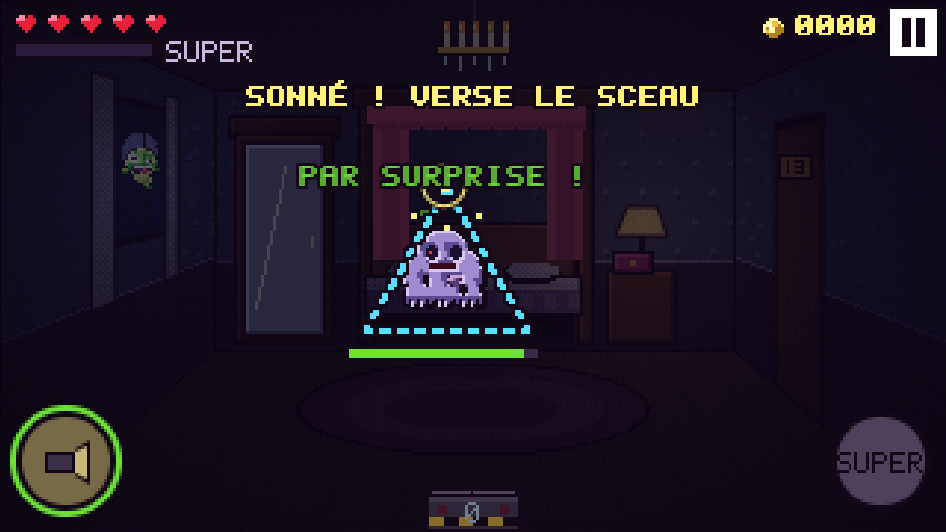
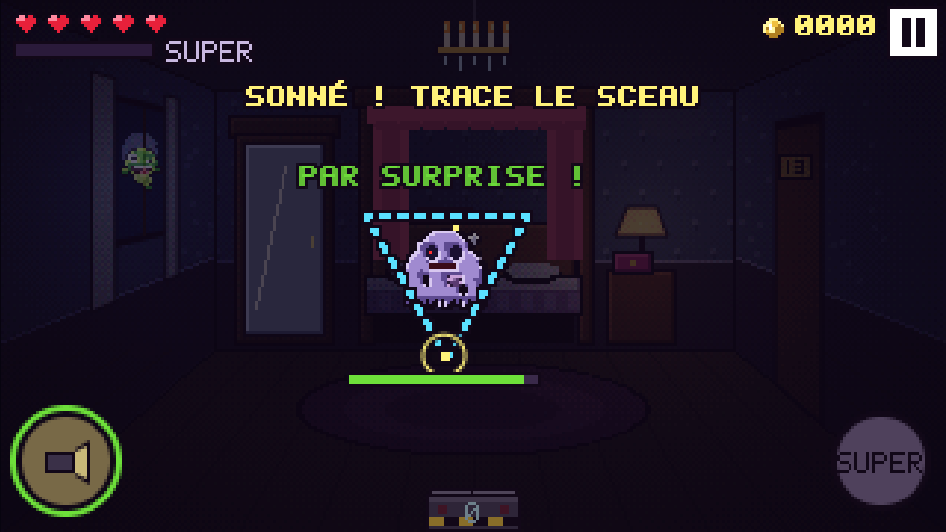
Ghostel 2.7.3 : on trace le sceau, on ne le verse pas
Julie : on verse du sel pour tracer un sceau, on ne verse pas le sceau.
« VERSE LE SCEAU » devient « TRACE LE SCEAU » dans les trois textes.

Changed region(s): [[0.3679, 0.3308, 0.5825, 0.7218], [0.4292, 0.1504, 0.5211, 0.2105]]

diff --git a/ghost-train/moteur/sceaux.js b/ghost-train/moteur/sceaux.js
@@ -58,7 +58,7 @@ export function ouvrirSceau(p, e, total = 1, n = 0, deja = []) {
   p.sceau = { e, forme: nom, deja: [...deja, nom], traits, i: 0, jalons: traits[0].jalons, cx, cy, r, duree, reste: duree, total, n, trace: null, leve: false, t: 0 };
   p.tenu = null; p.tire = false;
   if (n === 0) {
-    evt(p, { type: 'texte', s: e.boss ? 'ELLE SE DÉBAT ! VERSE LES SCEAUX' : 'SONNÉ ! VERSE LE SCEAU', x: 160, y: ligne(p.sceau), col: '#fff27a' });
+    evt(p, { type: 'texte', s: e.boss ? 'ELLE SE DÉBAT ! TRACE LES SCEAUX' : 'SONNÉ ! TRACE LE SCEAU', x: 160, y: ligne(p.sceau), col: '#fff27a' });
     evt(p, { type: 'son', nom: 'pret' }); evt(p, { type: 'vibre', ms: 60 });
   }
 }

diff --git a/ghost-train/contenu/missions.js b/ghost-train/contenu/missions.js
@@ -190,7 +190,7 @@ export const MISSIONS = {
         [0, 'occupe', 'drap', 'ronfle', [150, 90, 0.8], 'bonnet'],
         [1, 'consigne', 'NOUVEAU : LES SCEAUX DE SEL !', 3.5], [1, 'sort', 'ecto', 'fenetre'],
         [4.5, 'consigne', 'IL DORT : SANS LA TORCHE, PRENDS-LE !', 4],
-        [7.5, 'sort', 'drap', 'baldaquin'], [8, 'consigne', 'AFFAIBLIS-LE, PUIS VERSE SON SCEAU', 4.5],
+        [7.5, 'sort', 'drap', 'baldaquin'], [8, 'consigne', 'AFFAIBLIS-LE, PUIS TRACE SON SCEAU', 4.5],
         [10.5, 'sort', 'ecto', 'baldaquin'], [11, 'sort', 'crane', 'fenetre'],
         [14.5, 'lumi', 'd'],
         [17, 'sort', 'ombre', 'armoire'],

diff --git a/ghost-train/sw.js b/ghost-train/sw.js
@@ -4,7 +4,7 @@
    Trois chiffres, majeur.mineur.correctif (docs/ghost-train-versions.md) : du
    nouveau = mineur, une correction = correctif. Les réglages l'affichent.
    tools/ghost-train-pwa.mjs vérifie que SHELL contient tout ce que le jeu charge. */
-var VERSION = "ghost-train-2.7.2";
+var VERSION = "ghost-train-2.7.3";
 /* Tous nos jeux partagent l'origine replica-n8n.github.io, donc le même
    CacheStorage : le cache porte le nom du jeu et de sa portée, et l'activation ne
    supprime QUE les siens. */

diff --git a/docs/ghost-train-versions.md b/docs/ghost-train-versions.md
@@ -29,3 +29,4 @@ ligne et s'affiche à la gare et dans les réglages (« Version x.y.z »).
 | 2.7.0 | 2026-11-02 | Les fantômes à la Luigi's Mansion (maquette, idées 1 à 3 gardées par Julie) : les mêmes fantômes ne se prennent plus pareil. ÉQUIPÉS : une casserole sur la tête à la cuisine (le rayon glisse jusqu'à ce qu'elle brûle et tombe), des lunettes noires à la bibliothèque (la torche ne marche qu'une fois qu'il les a ôtées pour rire, et il ne s'aspire qu'étourdi), un masque au bal (il ne se prend que sur le temps, et avance moins vite). PRIS SUR LE FAIT : un fantôme dîne au restaurant, un autre lit à la bibliothèque, deux dansent au bal, un dort en bonnet dans la chambre 13 ; pris avant qu'il nous voie, il paie double ; s'il nous voit, il file dans une cachette. À FOUILLER : dans chaque étage, un fantôme caché dans un meuble sans prévenir, et des pièces dans un autre ; le rayon posé dessus fouille, le meuble tremble de temps en temps pour mettre sur la piste. |
 | 2.7.1 | 2026-11-02 | Corrections graphiques vues par Julie : les arêtes de chaque pièce (les traits sombres des coins) étaient tracées en dernier et traversaient les meubles du premier plan (cartons des archives, fauteuils du fumoir, malle du vestiaire, table de la cuisine, coffre des combles…) ; elles passent maintenant derrière. Le dîneur du restaurant était assis là où vise le rayon en entrant : un doigt resté posé l'aspirait avant qu'on le voie. Il a changé de place, et le rayon glisse sur un fantôme occupé pendant la première seconde et demie d'une salle. |
 | 2.7.2 | 2026-11-02 | Les sceaux, vus par Julie : le guide (un grain pâle tous les 5 pixels) se perdait sur un fantôme clair ; il devient des tirets cernés de noir, cyan pour le trait à verser, mauve pour le suivant. La Gouvernante pouvait demander deux fois le même sceau d'affilée : ses trois sceaux sont maintenant tous différents. Planche : `node tools/ghost-train-sceaux-planche.mjs`. |
+| 2.7.3 | 2026-11-03 | Les textes des sceaux, relevés par Julie : on ne « verse » pas un sceau, on verse du sel pour le tracer. « VERSE LE SCEAU » devient « TRACE LE SCEAU » (sonné, Gouvernante, consigne de la chambre). |
